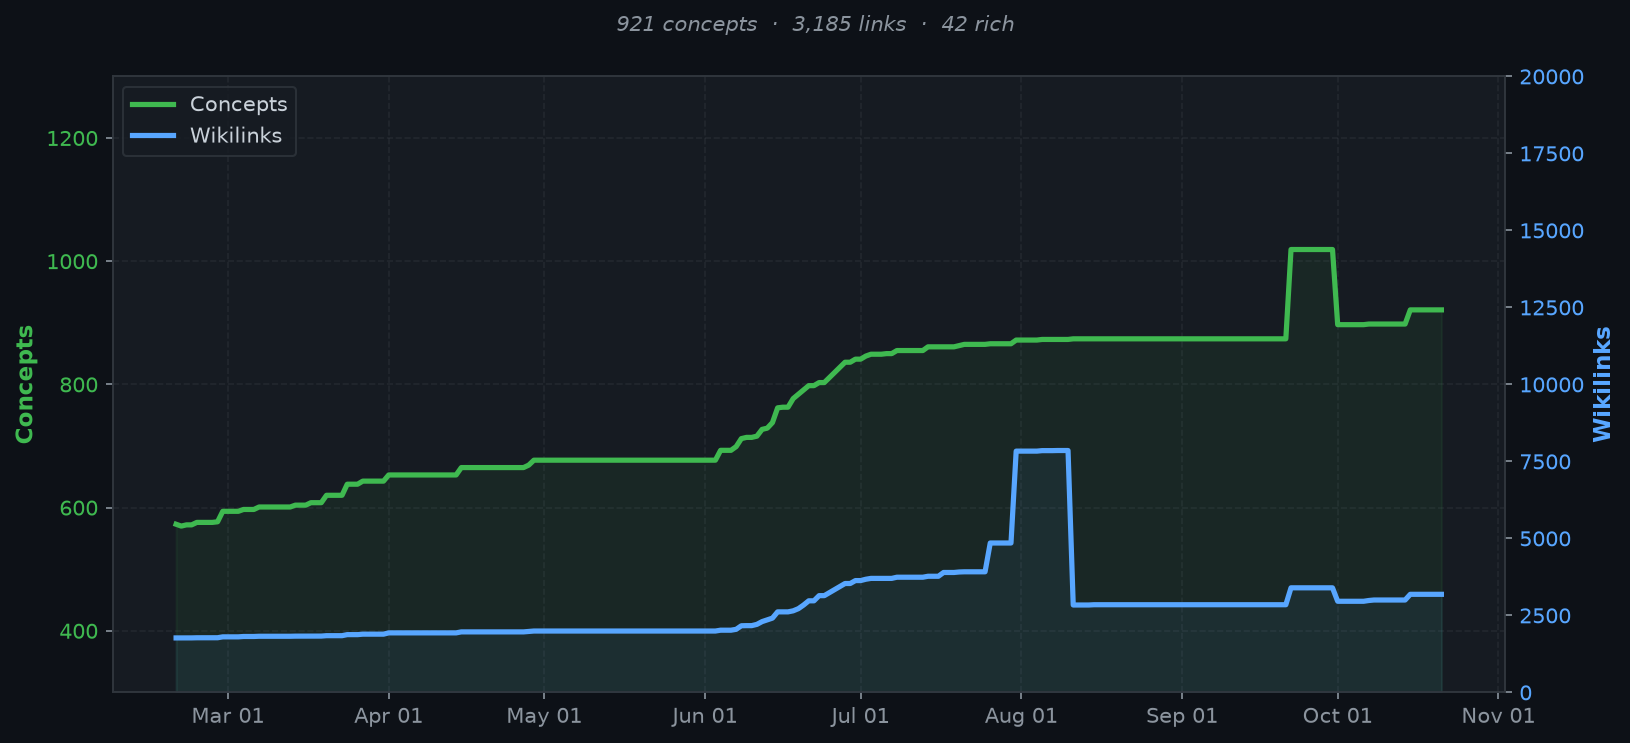
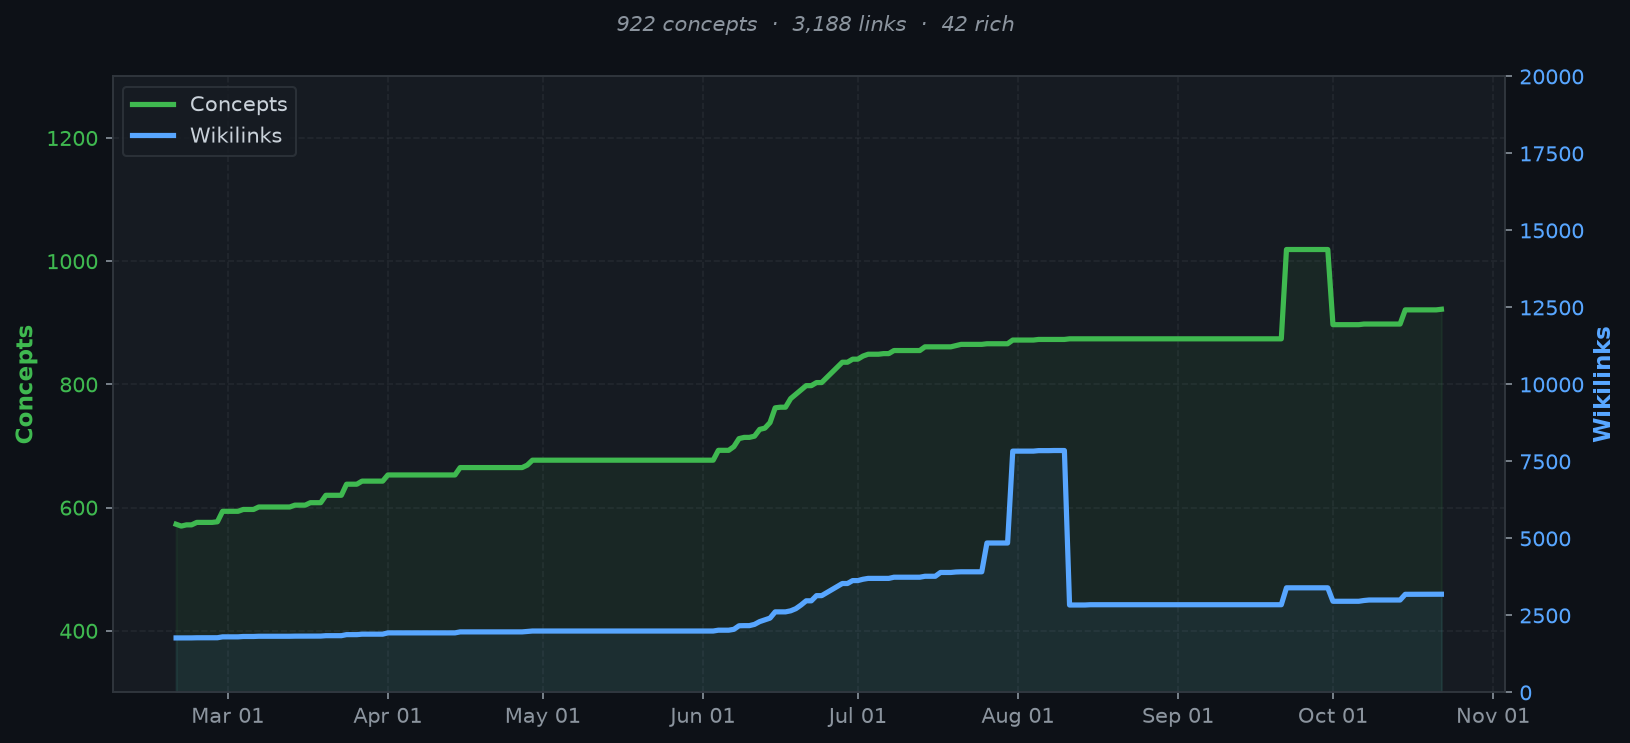
Update knowledge graph stats [skip ci]

diff --git a/README.md b/README.md
@@ -4,7 +4,7 @@
 
 **A living [[ontology]] of [[data]] science, ML, and AI built as an Obsidian vault with typed semantic relationships.**
 
-[![Concepts](https://img.shields.io/badge/concepts-921-blue?style=flat-square)](#)
+[![Concepts](https://img.shields.io/badge/concepts-922-blue?style=flat-square)](#)
 [![Wikilinks](https://img.shields.io/badge/wikilinks-7%2C800%2B-green?style=flat-square)](#)
 [![SKOS Coverage](https://img.shields.io/badge/SKOS_coverage-80.9%25-orange?style=flat-square)](#)
 [![Datalog Rules](https://img.shields.io/badge/datalog_rules-9-purple?style=flat-square)](#formal-reasoning)
